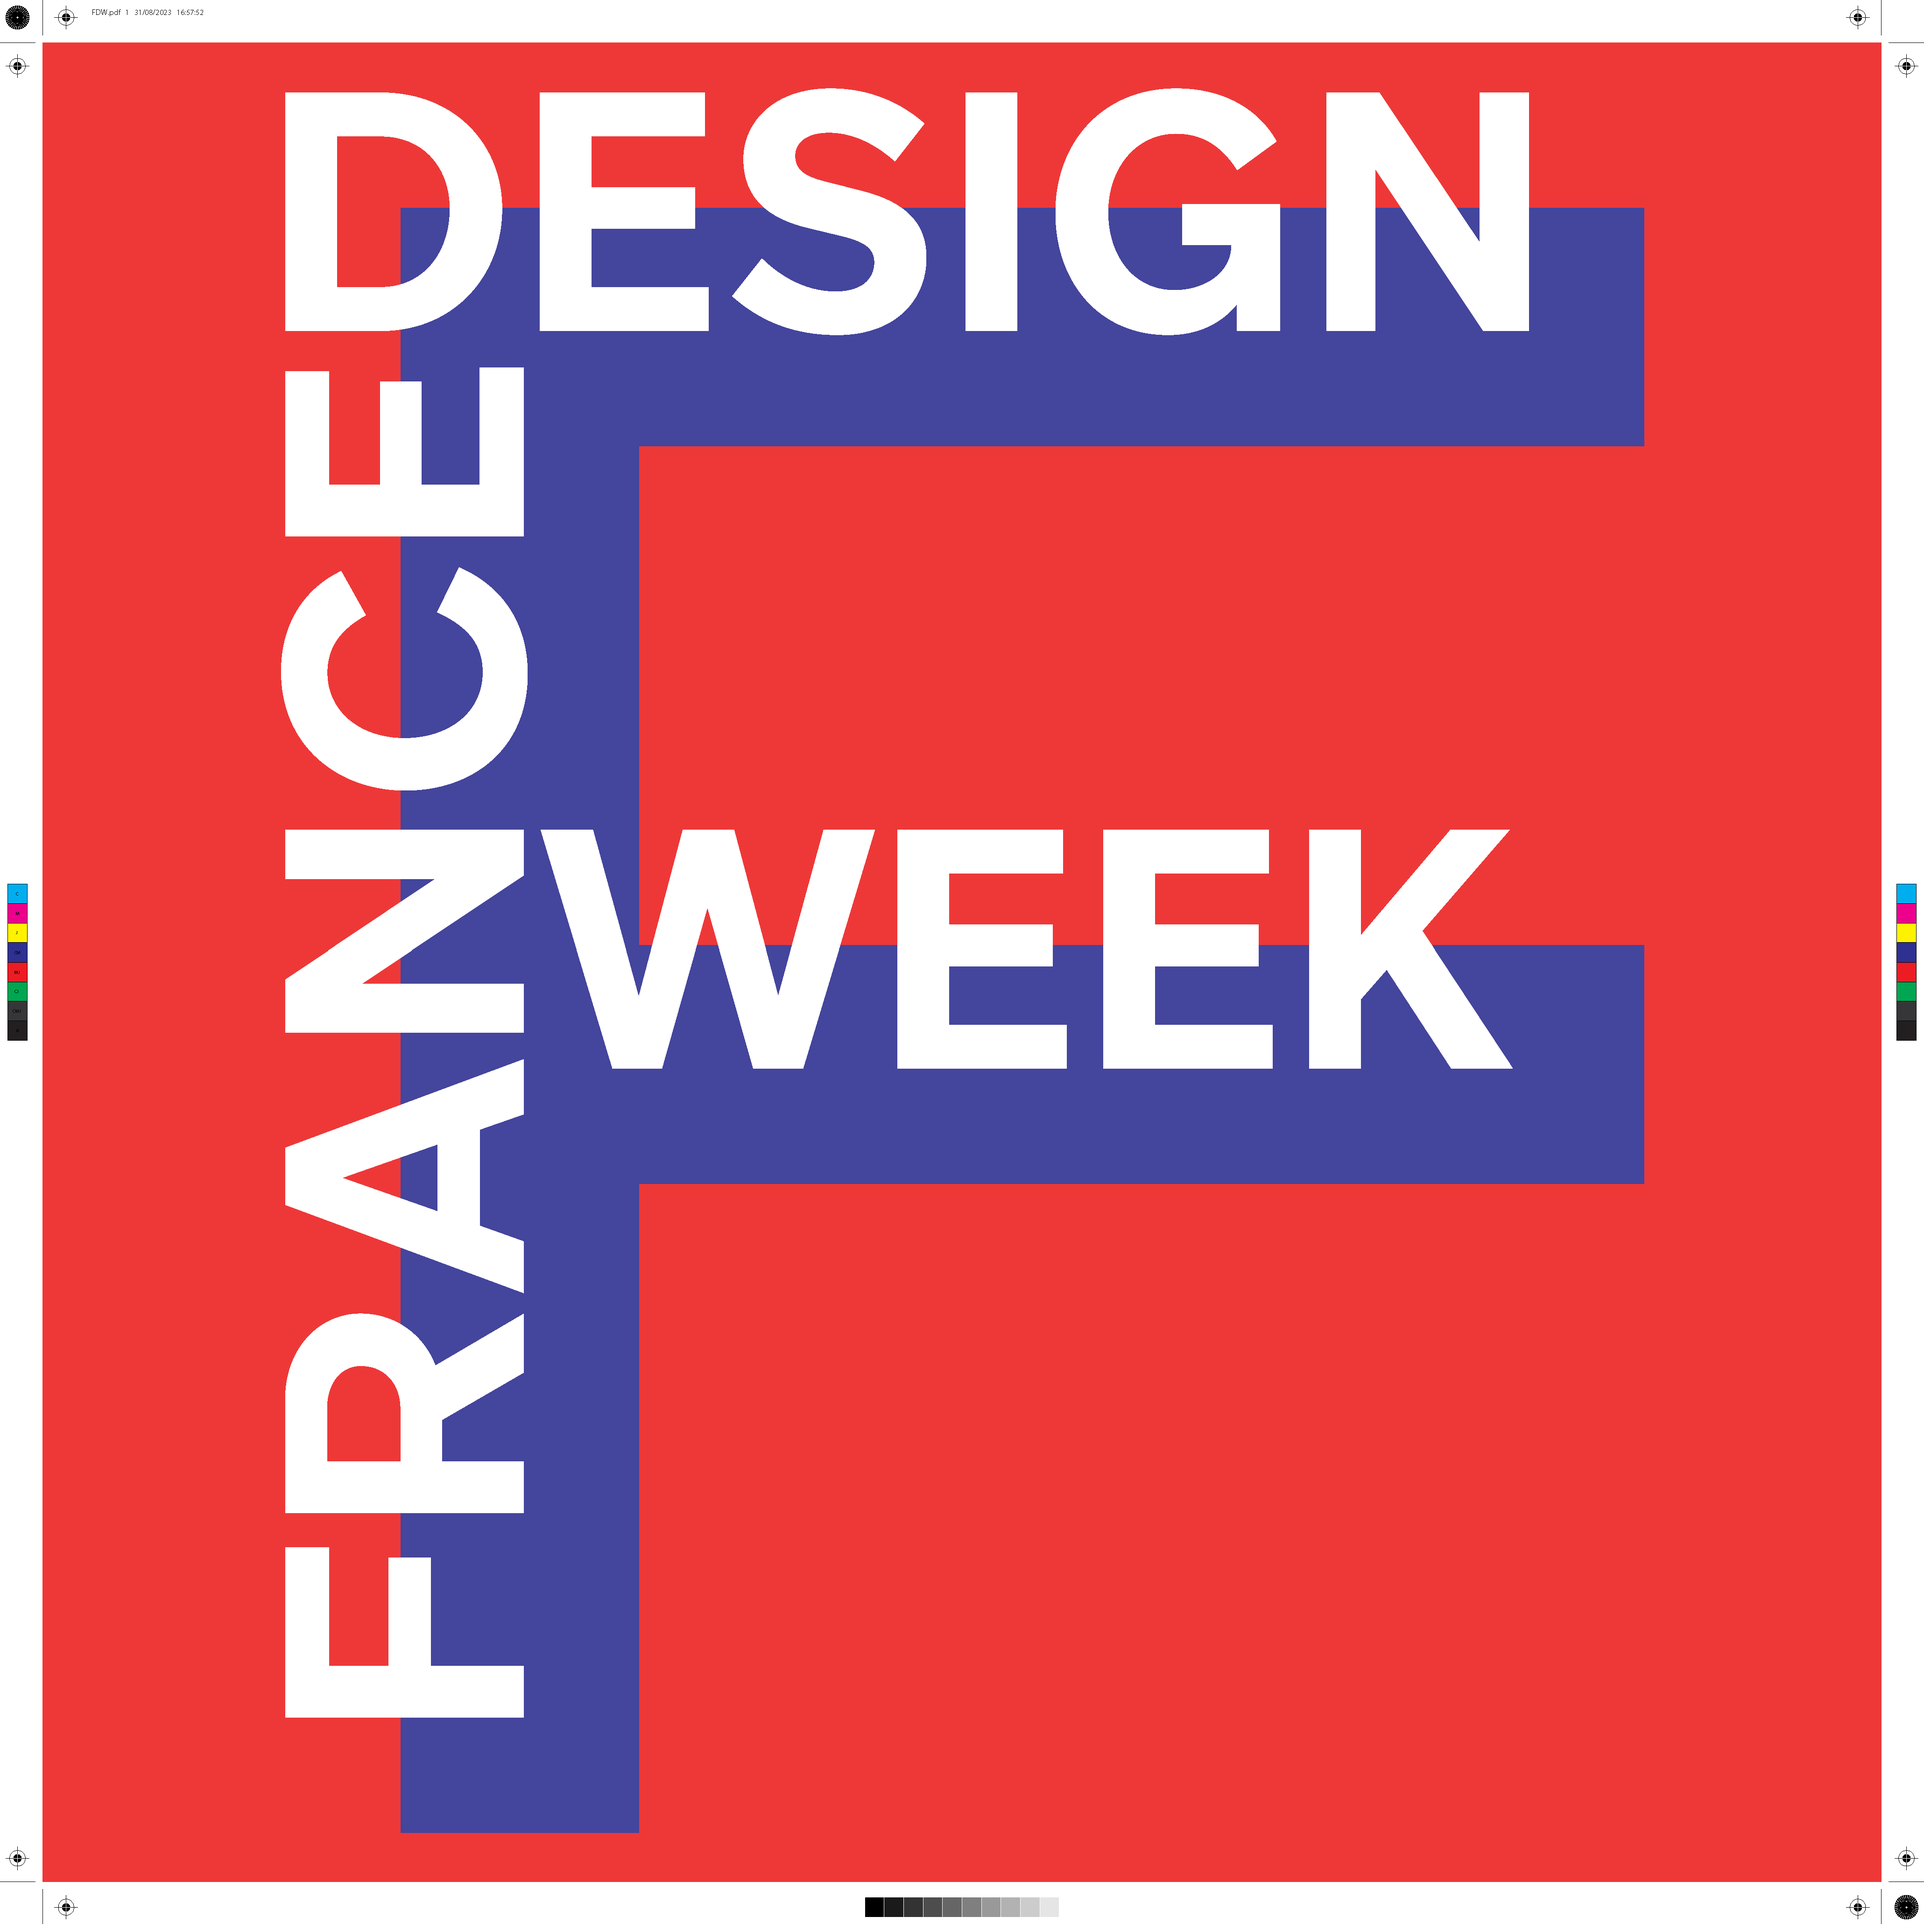
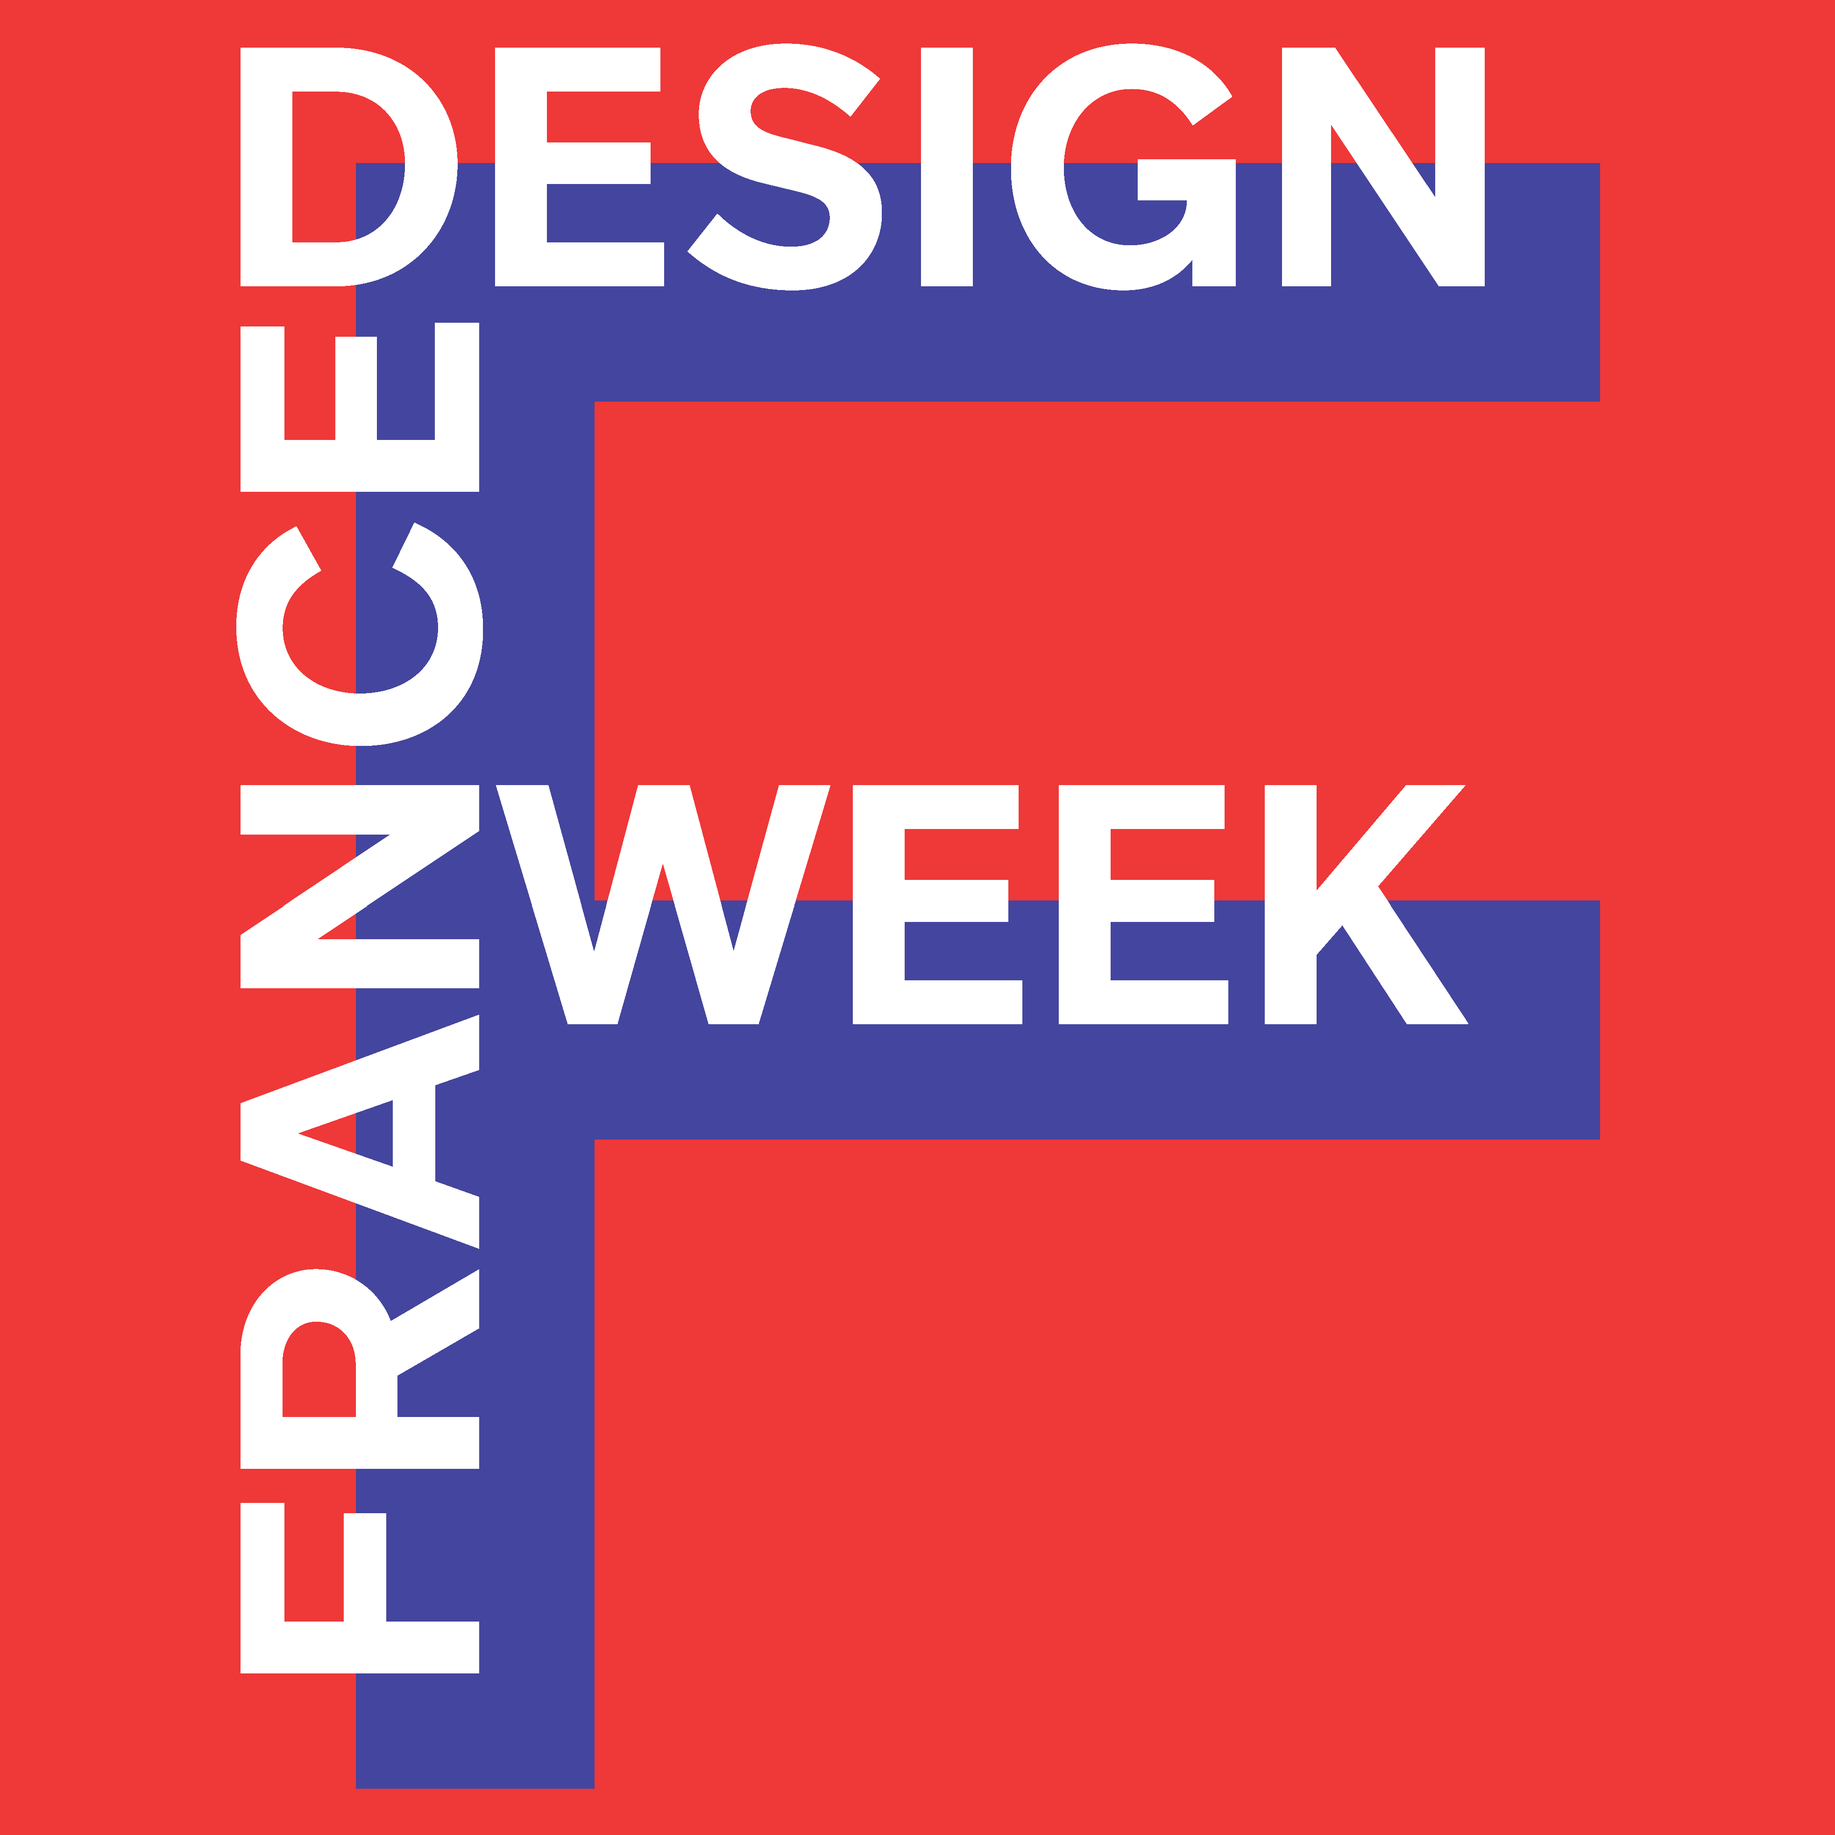
save 230224 11h33

diff --git a/index.html b/index.html
@@ -104,7 +104,7 @@
 
                 <p>Voici une présentation du travail que j'ai accompli lors de ma mission pour la France Design Week</p>
                 
-                <img id="logo-fdw" src="assets/img/france-design-week-logo.png" alt="">
+                <img id="logo-fdw" src="assets/img/FDW.png" alt="">
             </div>
             <div id="bouton-noir"><a href="fdw.html">Voir plus</a></div>
 
